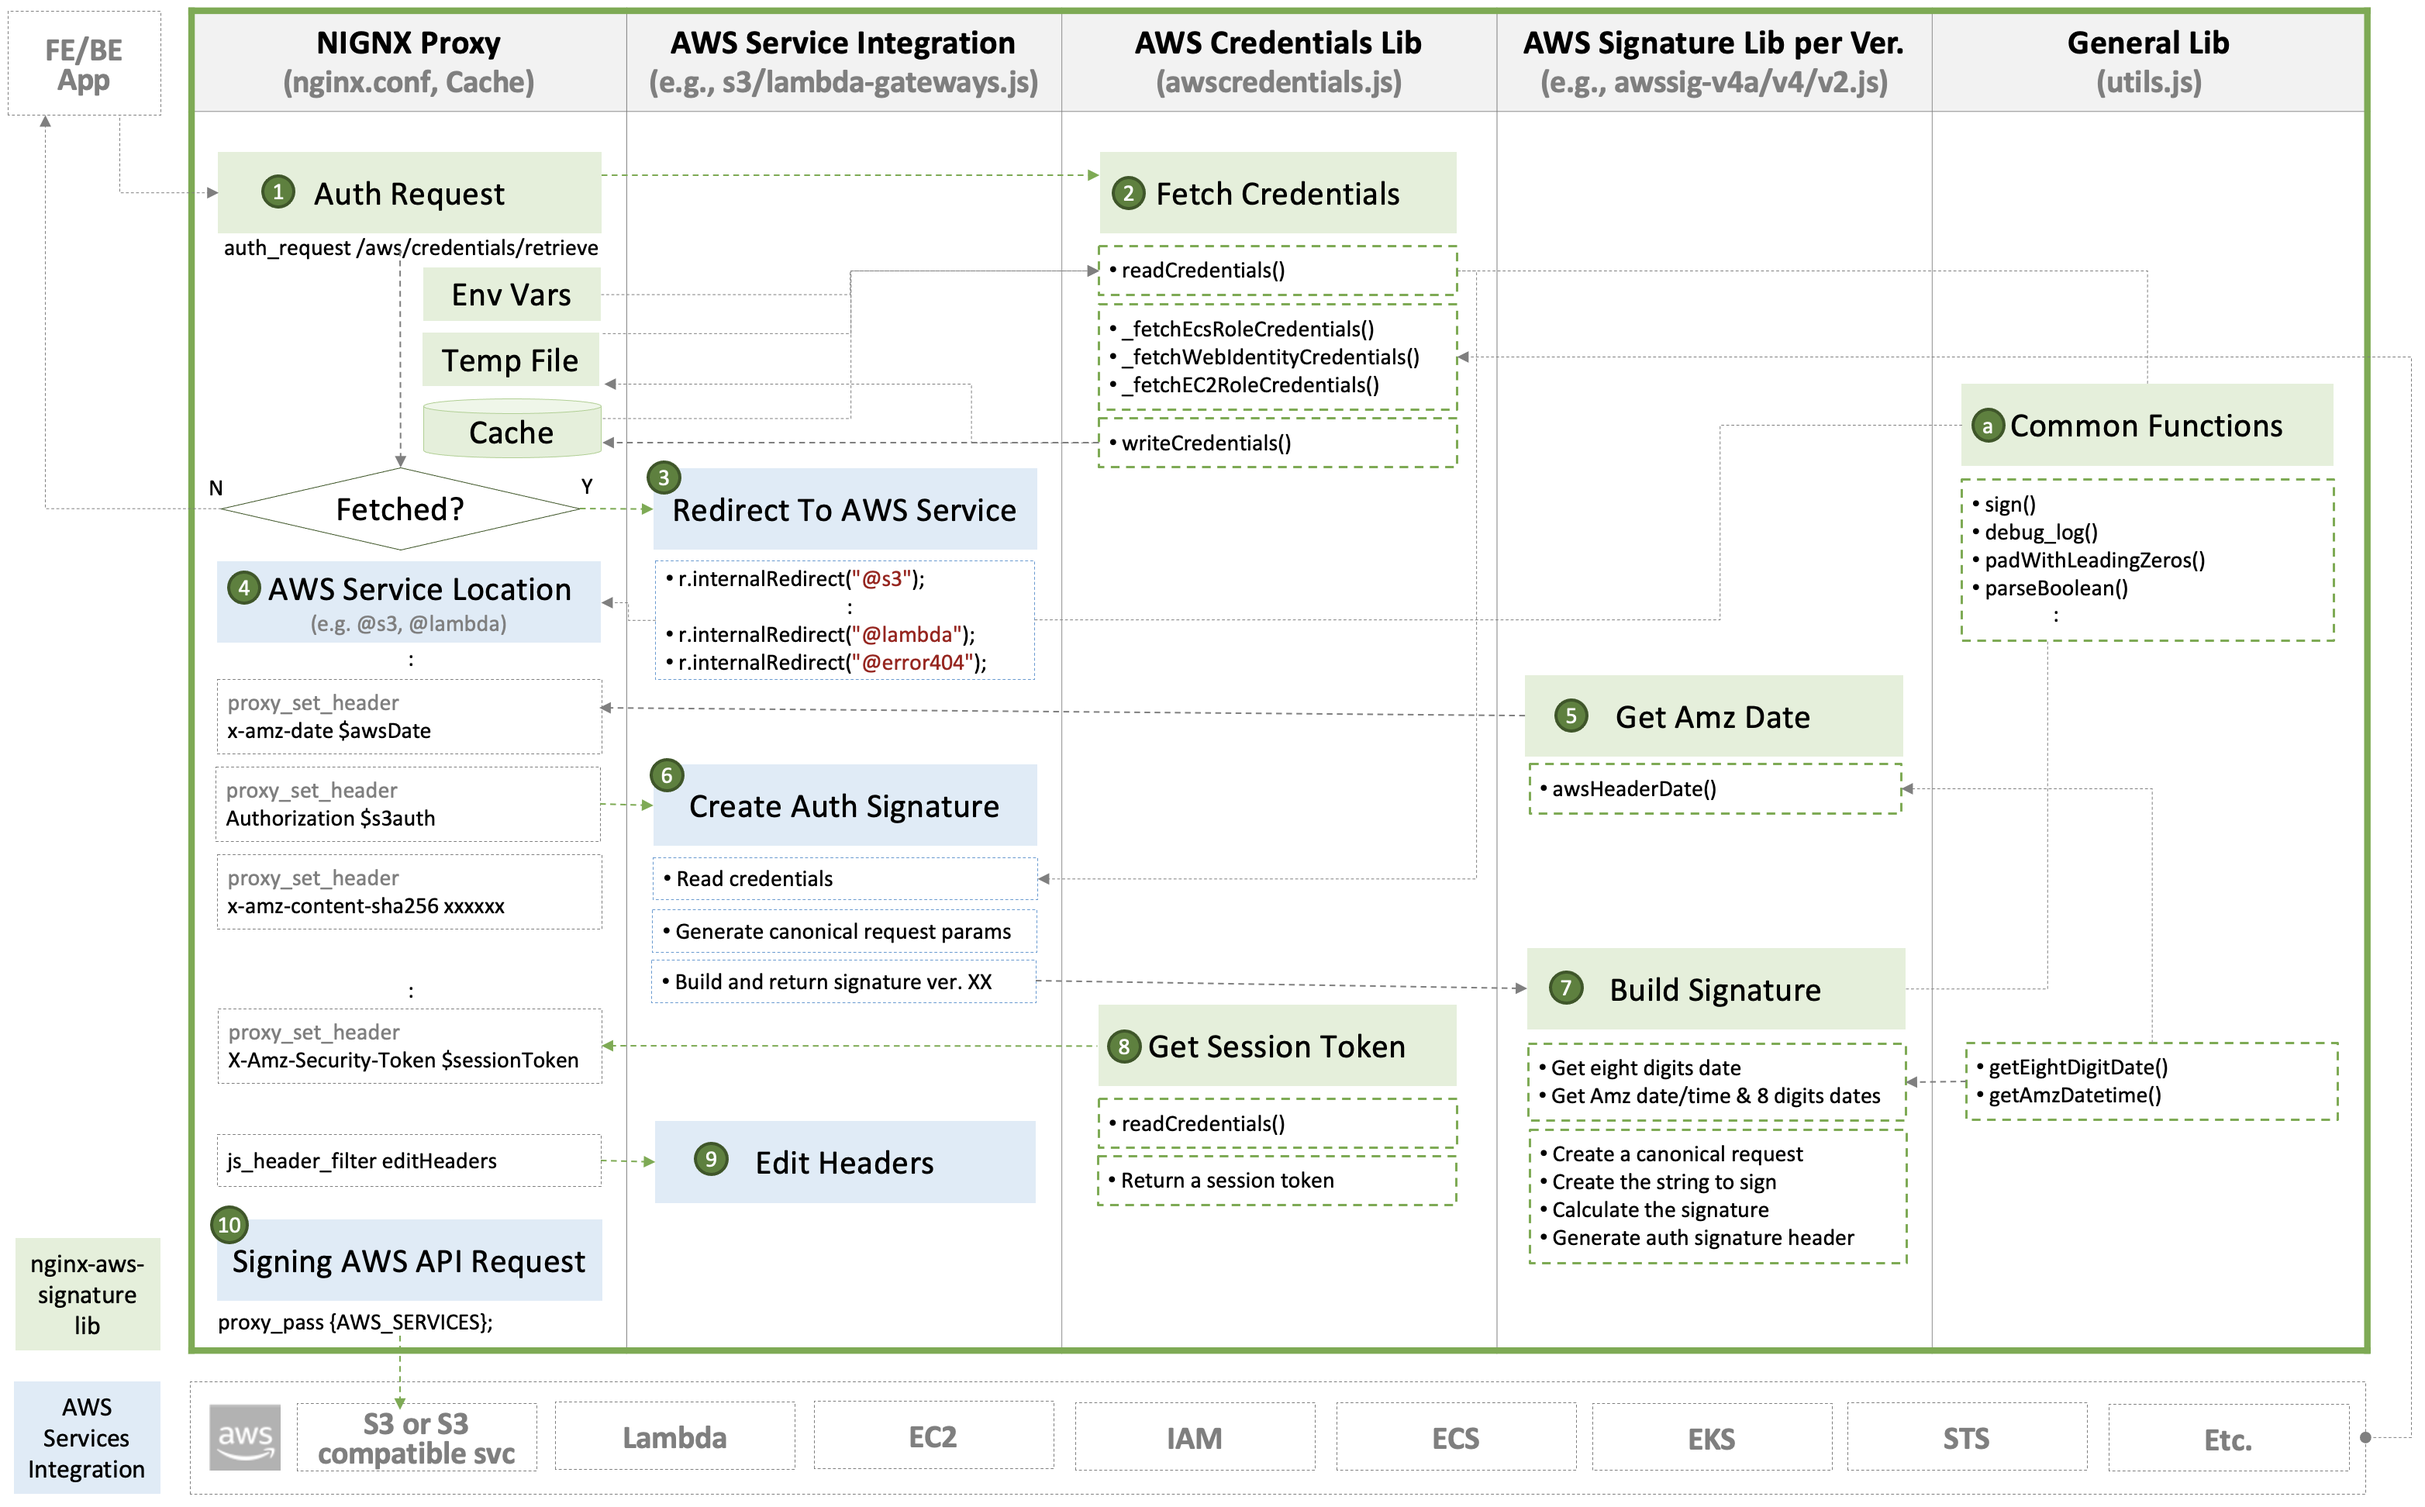
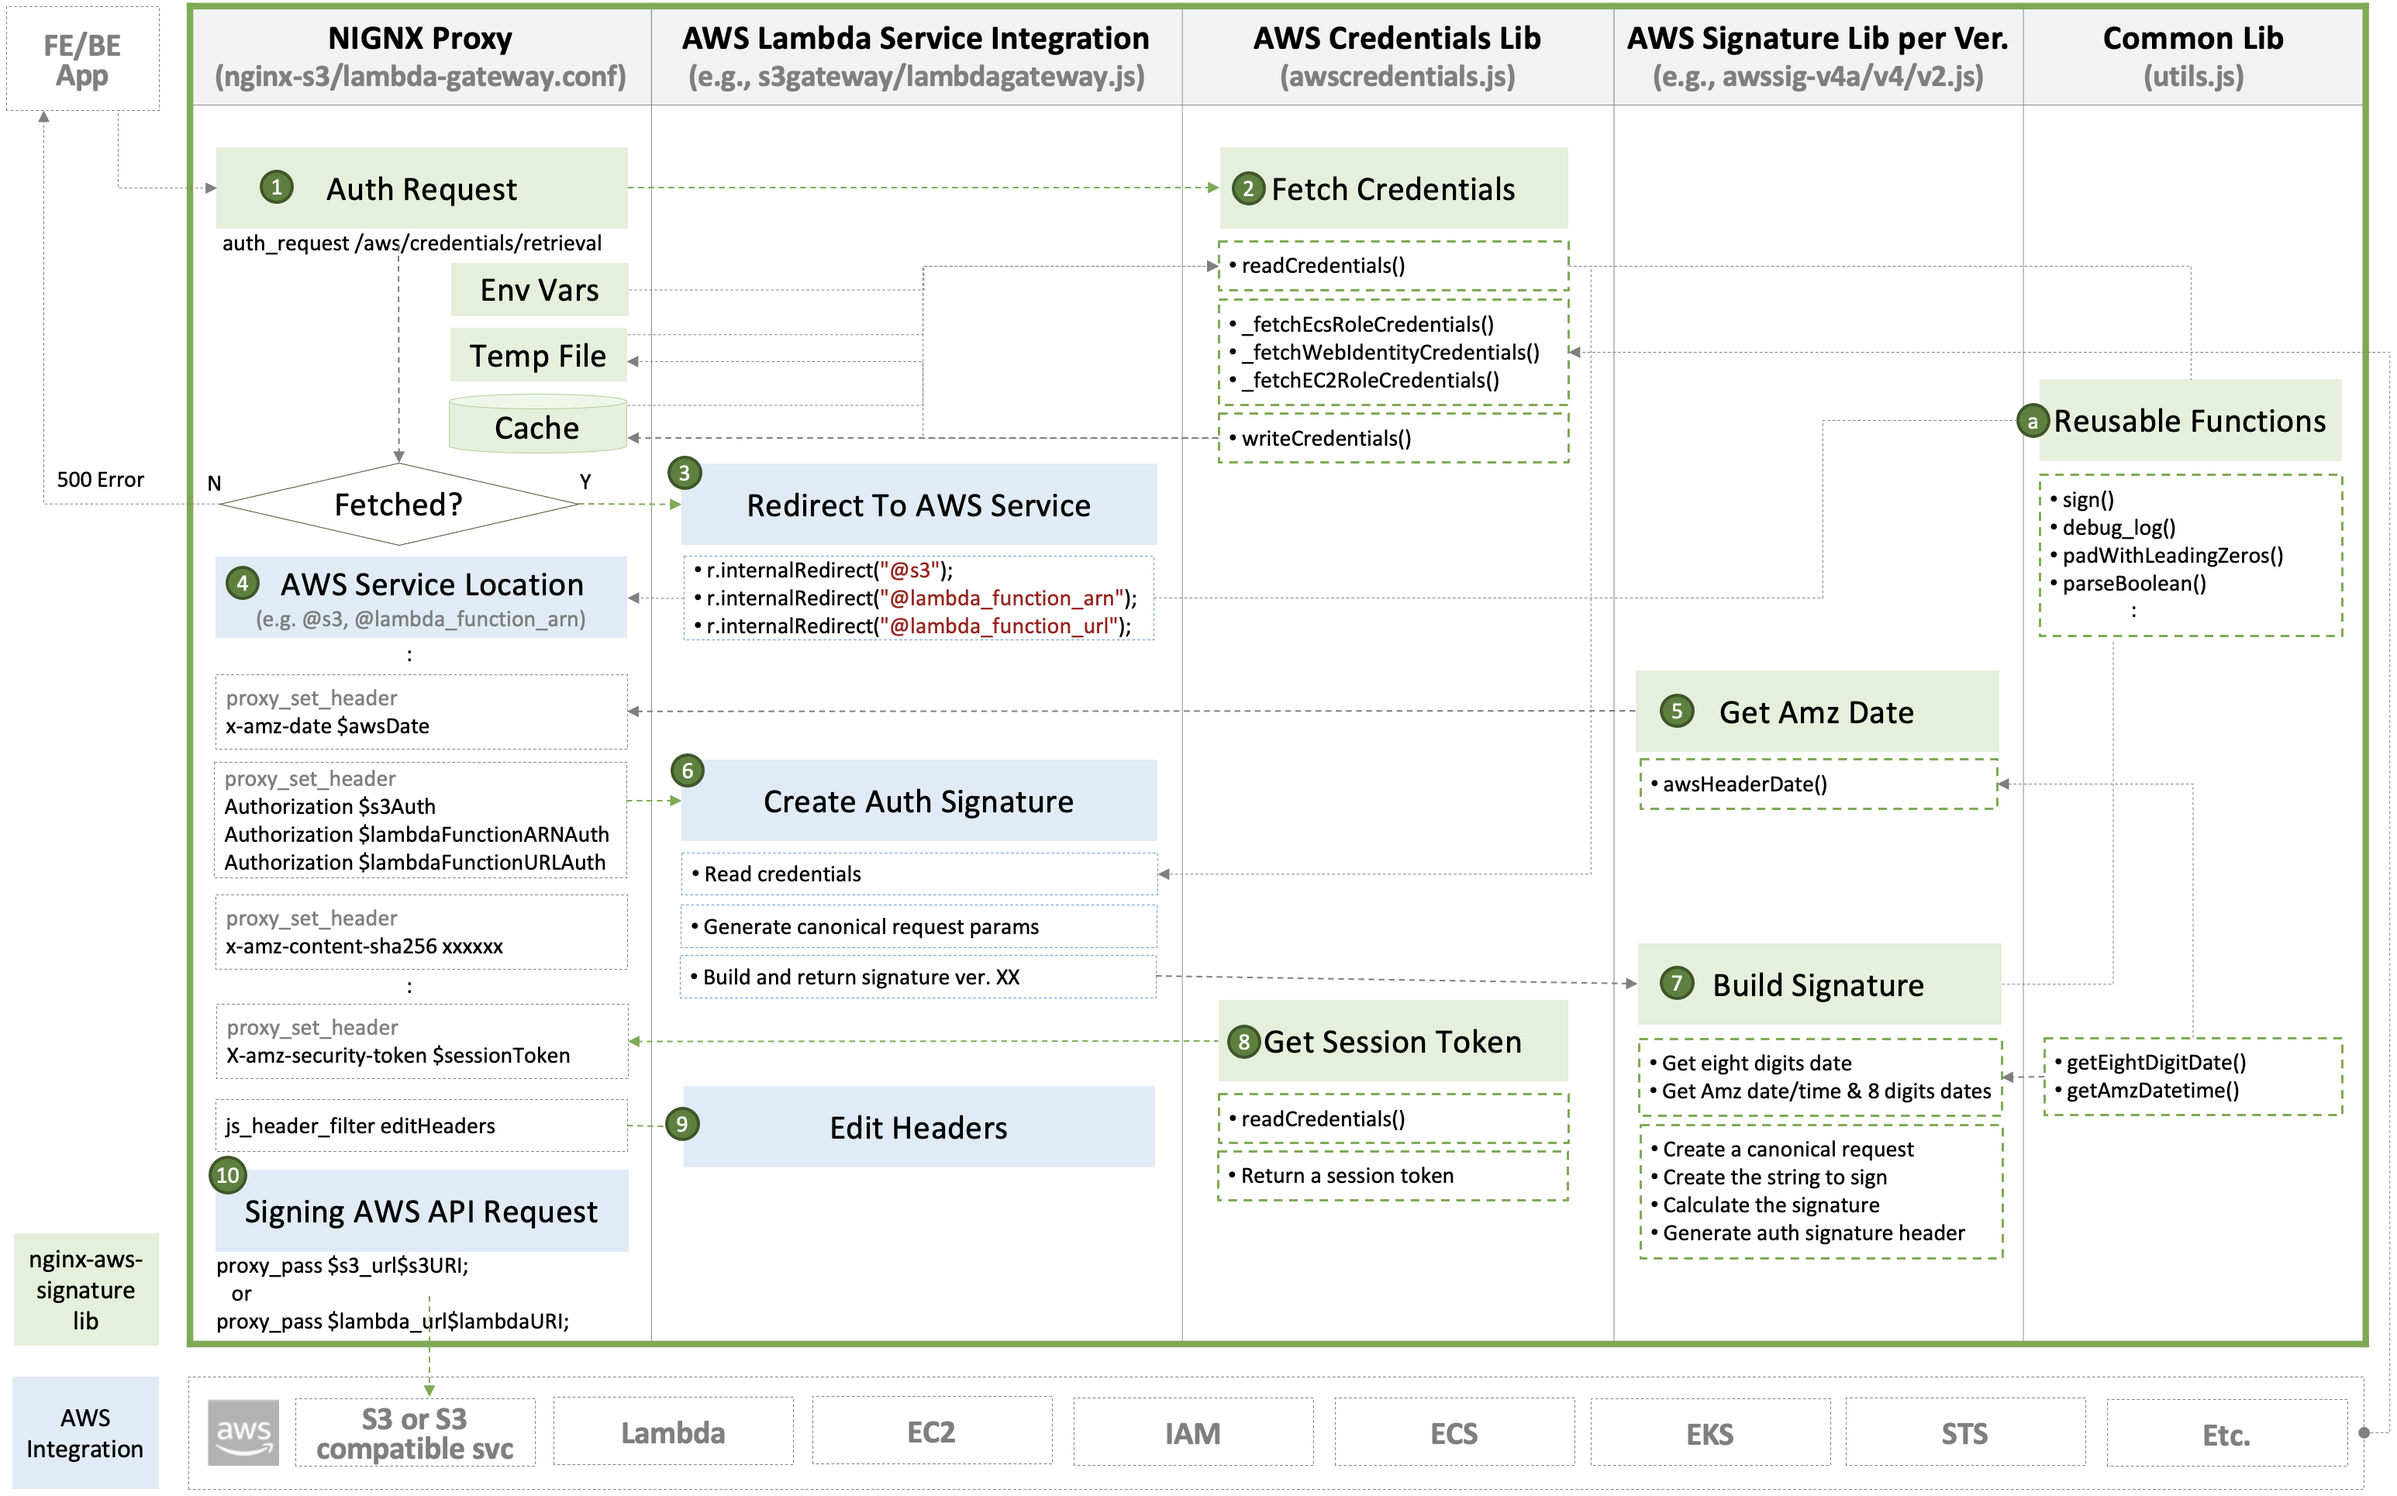
docs: getting started & intro

diff --git a/README.md b/README.md
@@ -2,7 +2,7 @@
 
 NGINX AWS Signature Library to authenticate AWS services such as S3 and Lambda via NGINX and NGINX Plus.
 
-![](./docs/img/nginx-aws-signature.png)
+![](./docs/img/nginx-aws-signature-intro.png)
 
 **TABLE OF CONTENTS:**
 
@@ -15,7 +15,10 @@ NGINX AWS Signature Library to authenticate AWS services such as S3 and Lambda v
 
 ## Getting Started
 
-![](./docs/img/nginx-aws-signature-flow.png)
+This project is to provide the common library for your apps or services. To get this project up and running, the following nginx project can be used prior to implementing your project.
+
+- [Getting Started with `nginx-s3-gateway`](https://github.com/nginxinc/nginx-s3-gateway#getting-started)
+- [Getting Started with `nginx-lambda-gateway`](https://github.com/nginxinc/nginx-aws-signature/blob/main/README.md#Getting-Started)
 
 ## Directory Structure and File Descriptions
 
@@ -45,11 +48,13 @@ nginx-aws-signature
 └── Makefile                    automate to build/start/stop testing environment
 ```
 
+![](./docs/img/nginx-aws-signature-flow.png)
+
 ## How to Use
 
 ### Sparse Checkouts of Submodules
 
-Create or update git submodule when using this lib in your repository. Otherwise, copy [`core/*.js`](./core/) into the prefered directory on your NGINX instance.
+Create or update `git submodule` when using this lib in your repository. Otherwise, skip the following steps, and copy [`core/*.js`](./core/) into the prefered directory on your NGINX instance.
 
 #### Step 1. Choose one of the following options
 - Option 1. Clone this repo with a depth of 1 for the first time
